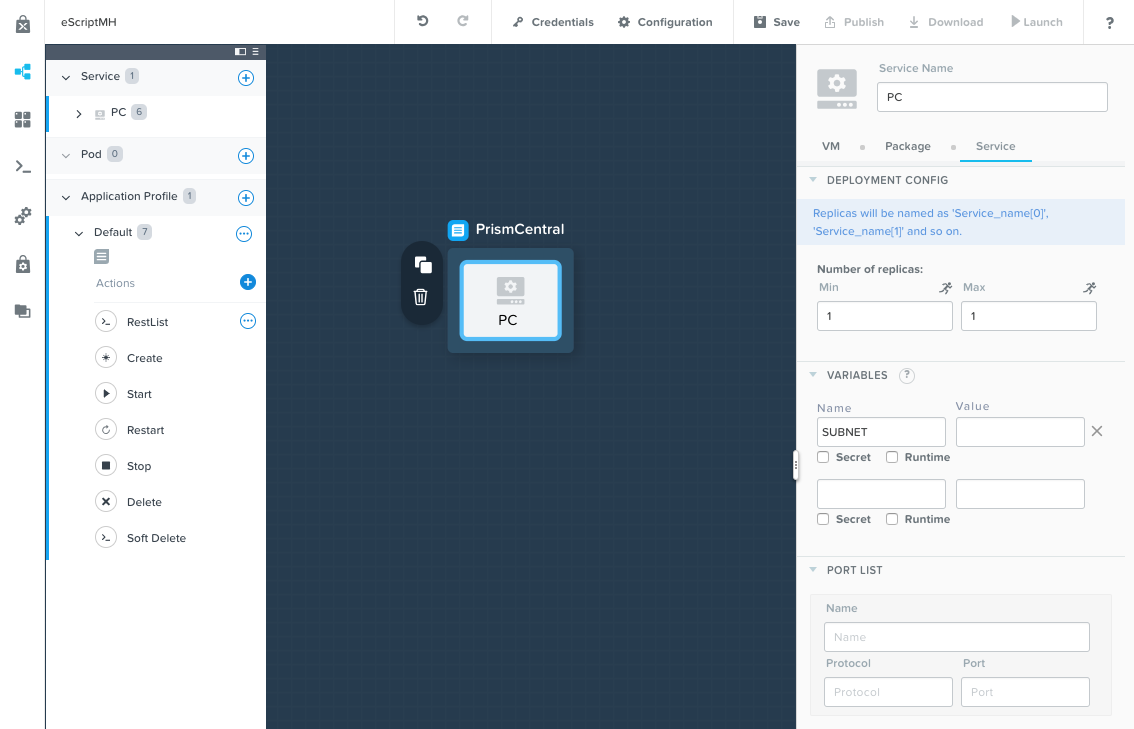
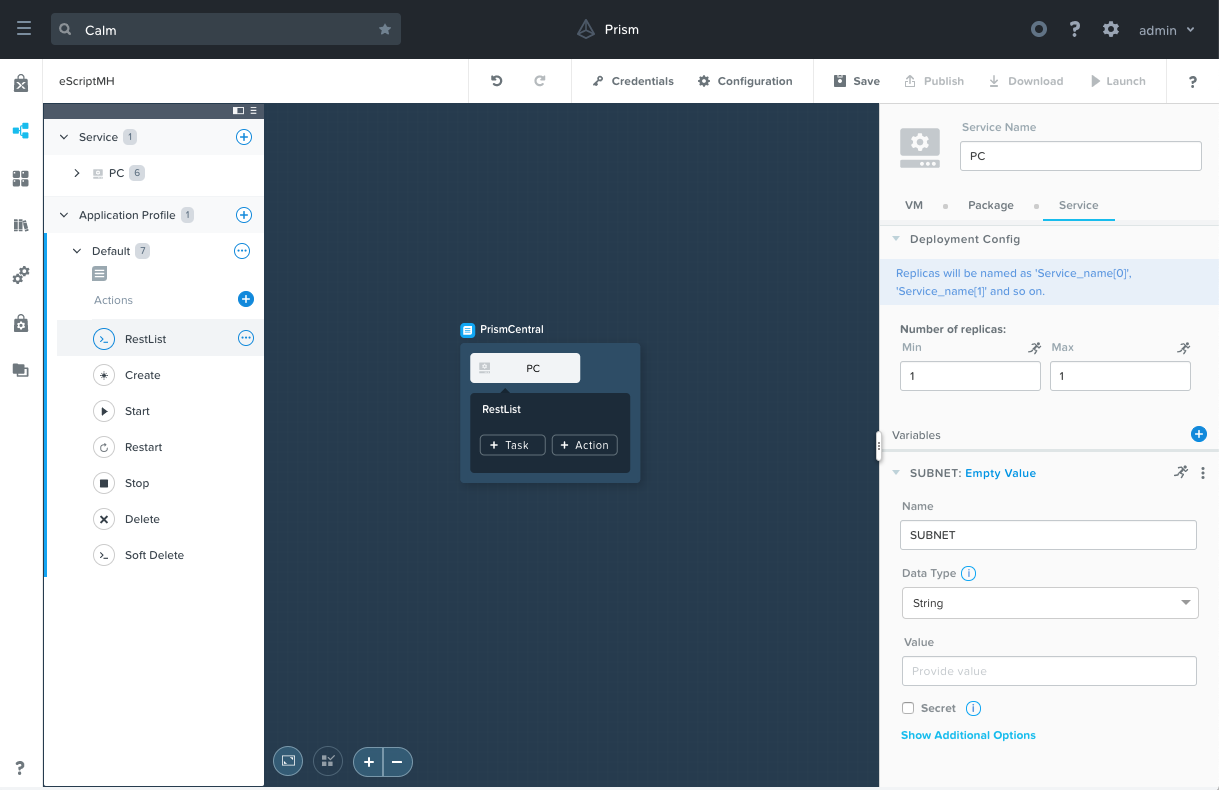
Updated Calm_escript lab for 5.7/2.7.1

diff --git a/calm_escript/calm_escript.rst b/calm_escript/calm_escript.rst
@@ -34,9 +34,9 @@ This lab assumes basic familiarity with Nutanix Calm.
 
 #. Fill out the following fields and click **Proceed**:
 
-   - **Name** - *Initials*\ -EScript
+   - **Name** - *Initials*-EScript
    - **Description** - My First EScript Blueprint
-   - **Project** - default
+   - **Project** - *Initials*-Calm
 
 #. From the toolbar along the top of the blueprint, click **Credentials**.
 
@@ -45,7 +45,7 @@ This lab assumes basic familiarity with Nutanix Calm.
    - **Credential Name** - PC_Creds
    - **Username** - admin
    - **Secret Type** - Password
-   - **Password** - techX2019!
+   - **Password** - *Your Prism Central admin Password*
 
    .. figure:: images/credentials.png
 
@@ -108,8 +108,9 @@ In this exercise, we're going to be creating a custom action for our application
 #. On the **Configuration Pane** to the right, name the action **RESTList**, and add a single variable:
 
    - **Name** - kind
+   - **Data Type** - String
    - **Value** - apps
-   - Select **Runtime**
+   - Select **Runtime** by toggling the running man icon in the upper right to blue
 
    .. figure:: images/restlist.png
 
@@ -194,7 +195,7 @@ In this exercise, we're going to create an additional custom action to make a di
      if resp.ok:
 
       # Cycle through the project "entities", and check if its name matches the current project
-      for project in json.loads(resp.content)['entities']:
+      for project in json.loads(resp.content)['entities']:  
         if project['spec']['name'] == '@@{calm_project_name}@@':
 
           # If there's a default subnet reference, print UUID to set variable and exit success, otherwise error out
